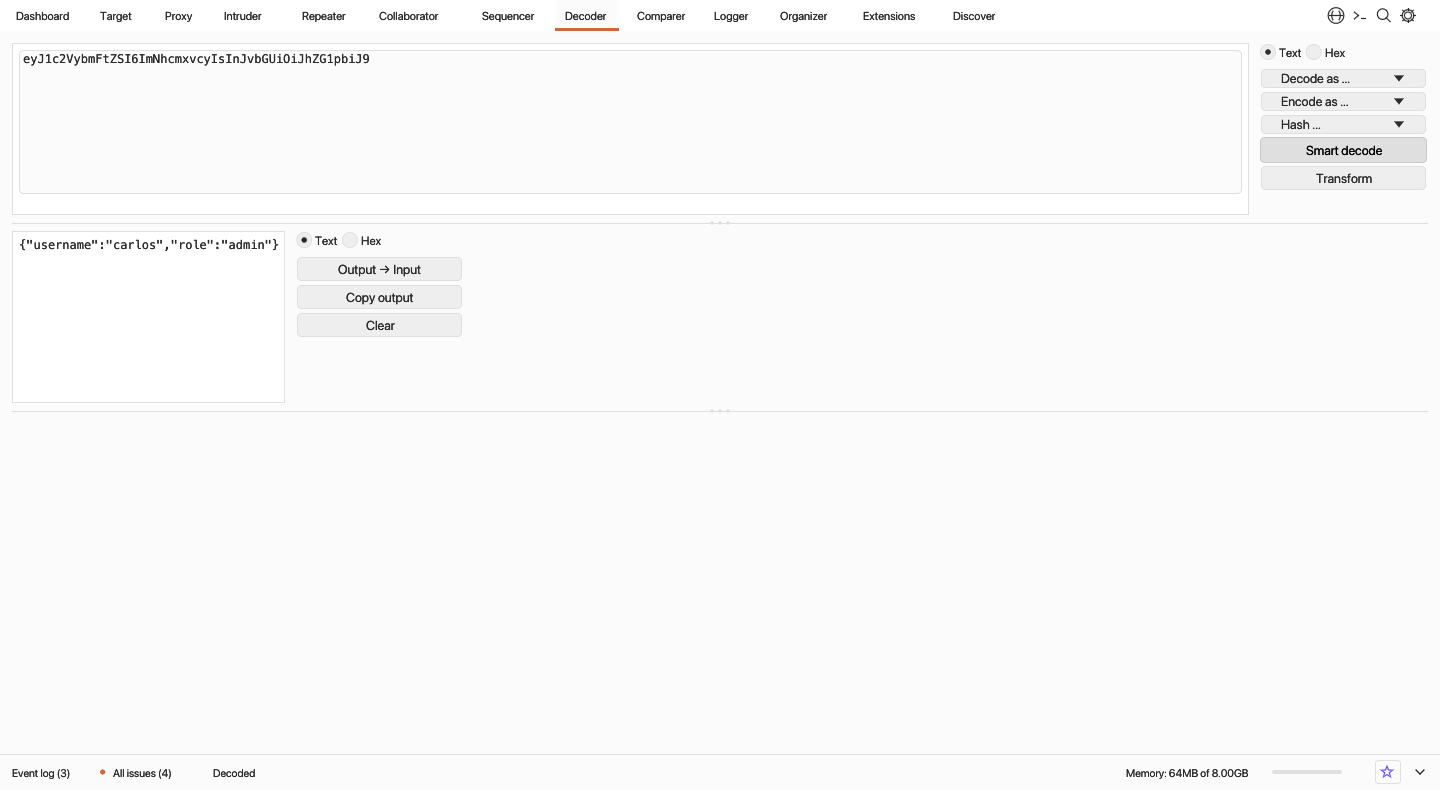
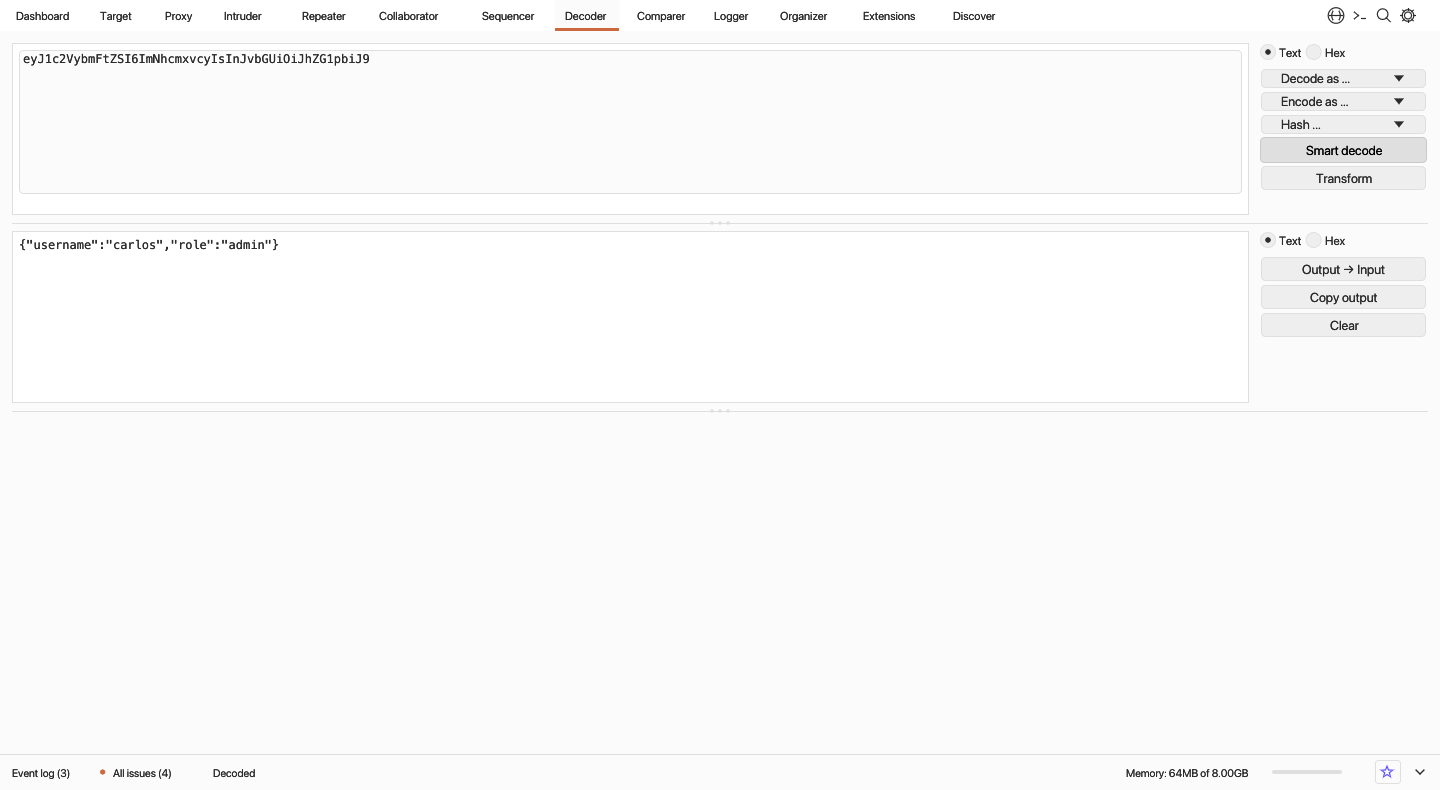
fix(ui,engine): resolve 8 UI layout/clipping bugs across Repeater, Decoder, Proxy, Scanner, Organizer, Comparer & Sequencer and wire DNS overrides/session rules into send_request

Changed region(s): [[0.875, 0.3038, 0.9688, 0.4253], [0.2188, 0.3038, 0.3125, 0.4253]]

diff --git a/engine/src/ui/panels/scanner.rs b/engine/src/ui/panels/scanner.rs
@@ -1224,13 +1224,14 @@ pub fn draw_scan_launcher(app: &mut App, ui: &mut Ui) {
                     ui.available_rect_before_wrap().min,
                     Vec2::new(content_w, body_h),
                 );
+                ui.set_clip_rect(bg_rect.intersect(ui.clip_rect()));
                 ui.painter()
                     .rect_filled(bg_rect, 0.0, theme.color("ui.background.0"));
                 egui::Frame::NONE
-                    .inner_margin(egui::Margin::symmetric(24, 20))
+                    .inner_margin(egui::Margin::symmetric(20, 12))
                     .show(ui, |ui| {
-                        ui.spacing_mut().item_spacing = Vec2::new(6.0, 6.0);
-                        let scroll_h = (body_h - 40.0).max(240.0);
+                        ui.spacing_mut().item_spacing = Vec2::new(6.0, 5.0);
+                        let scroll_h = (body_h - 24.0).max(240.0);
                         egui::ScrollArea::vertical()
                             .id_salt("scan-launcher-step-scroll")
                             .max_height(scroll_h)
@@ -1500,7 +1501,7 @@ fn draw_launcher_step_details(app: &mut App, ui: &mut Ui) {
         }
     }
 
-    ui.add_space(16.0);
+    ui.add_space(8.0);
 
     match app.panels.scanner.scan_type {
         0 | 1 => {
@@ -1524,7 +1525,7 @@ fn draw_launcher_step_details(app: &mut App, ui: &mut Ui) {
                             egui::TextEdit::multiline(&mut app.panels.scanner.urls_to_scan)
                                 .font(egui::TextStyle::Monospace)
                                 .frame(false)
-                                .desired_rows(5)
+                                .desired_rows(3)
                                 .desired_width(f32::INFINITY),
                         )
                         .changed()
@@ -1589,7 +1590,7 @@ fn draw_launcher_step_details(app: &mut App, ui: &mut Ui) {
                 }
             });
 
-            ui.add_space(12.0);
+            ui.add_space(6.0);
             heading(ui, &theme, "Protocol settings");
             ui.add_space(2.0);
             ui.radio_value(
@@ -1603,7 +1604,7 @@ fn draw_launcher_step_details(app: &mut App, ui: &mut Ui) {
                 "Scan using my specified protocols",
             );
 
-            ui.add_space(10.0);
+            ui.add_space(4.0);
             egui::CollapsingHeader::new(RichText::new("Detailed scope configuration").strong())
                 .default_open(false)
                 .show(ui, |ui| {

diff --git a/engine/src/ui/app.rs b/engine/src/ui/app.rs
@@ -1261,13 +1261,38 @@ impl App {
     }
 
     /// Sends one request off-thread; the result lands in `responses` for `take_response`.
-    pub fn send_request(&mut self, host: String, port: u16, raw: String, secure: bool) -> u64 {
+    pub fn send_request(&mut self, host: String, port: u16, mut raw: String, secure: bool) -> u64 {
         let id = self.next_request;
         self.next_request += 1;
+
+        // 1. Apply custom Hostname DNS Overrides (`Settings -> Network`)
+        let dial_host = self
+            .dns_overrides
+            .iter()
+            .find(|(h, _)| h.eq_ignore_ascii_case(host.trim()))
+            .map(|(_, ip)| ip.clone())
+            .unwrap_or_else(|| host.clone());
+
+        // 2. Apply active Session Handling Rules (`Settings -> Sessions`)
+        for (enabled, _rule_name, _action, hdr) in &self.session_rules {
+            if *enabled && hdr.contains(':') {
+                let (head, body) = crate::analysis::split_message(&raw);
+                let hdr_name = hdr.split(':').next().unwrap_or("").trim();
+                if !hdr_name.is_empty()
+                    && !head
+                        .lines()
+                        .skip(1)
+                        .any(|l| l.split(':').next().unwrap_or("").trim().eq_ignore_ascii_case(hdr_name))
+                {
+                    raw = format!("{head}\r\n{}\r\n\r\n{body}", hdr.trim());
+                }
+            }
+        }
+
         let proxy = self.proxy.clone();
         let tx = self._requests_tx.clone();
         let task = self.runtime.spawn(async move {
-            let result = proxy.one_shot_secure(&host, port, &raw, secure, 15_000).await;
+            let result = proxy.one_shot_secure(&dial_host, port, &raw, secure, 15_000).await;
             let _ = tx.send((id, result));
         });
         self.request_tasks.insert(id, task);
@@ -3316,8 +3341,8 @@ impl App {
                                 .fill(self.theme.color("ui.background.0"))
                                 .inner_margin(0.0),
                         )
-                        .default_pos([260.0, 90.0])
-                        .default_size([880.0, 560.0])
+                        .default_pos([260.0, 70.0])
+                        .default_size([880.0, 600.0])
                         .show(child_ctx, |ui| {
                             super::panels::scanner::draw_scan_launcher(self, ui)
                         });

diff --git a/engine/src/ui/panels/organizer.rs b/engine/src/ui/panels/organizer.rs
@@ -63,8 +63,10 @@ pub fn draw(app: &mut App, ui: &mut Ui) {
                 ui.with_layout(
                     eframe::egui::Layout::right_to_left(eframe::egui::Align::Center),
                     |ui| {
-                        if ui.button("+ New").on_hover_text("Save Repeater request to Inbox").clicked()
-                            || ui.button("Save Repeater request").clicked()
+                        if ui
+                            .small_button("+ New")
+                            .on_hover_text("Save Repeater request to Inbox")
+                            .clicked()
                         {
                             let (host, name) = (
                                 app.panels.repeater.active().host.clone(),
@@ -90,6 +92,29 @@ pub fn draw(app: &mut App, ui: &mut Ui) {
                     },
                 );
             });
+            ui.add_space(4.0);
+            if ui.button("Save Repeater request").clicked() {
+                let (host, name) = (
+                    app.panels.repeater.active().host.clone(),
+                    app.panels.repeater.active().raw.clone(),
+                );
+                if name.trim().is_empty() {
+                    app.status = "Nothing to save: the Repeater request is empty".into();
+                } else {
+                    let next = app.organizer.len() + 1;
+                    retain(
+                        app,
+                        OrganizerItem {
+                            host,
+                            name: format!("item-{next}"),
+                            request: name,
+                            response: app.panels.repeater.active().response.clone(),
+                            notes: String::new(),
+                        },
+                    );
+                    app.status = "Saved to Organizer".into();
+                }
+            }
             ui.add_space(4.0);
             ui.add(
                 eframe::egui::TextEdit::singleline(&mut app.panels.organizer.search)

diff --git a/engine/src/ui/panels/sequencer.rs b/engine/src/ui/panels/sequencer.rs
@@ -253,11 +253,15 @@ pub fn draw(app: &mut App, ui: &mut Ui) {
                                     } else {
                                         req_line.clone()
                                     };
-                                    let r1 = ui.label(format!("{}", i + 1));
-                                    let r2 = ui.label(short_host).on_hover_text(&host_url);
+                                    let is_sel =
+                                        app.panels.sequencer.text == resp && !resp.is_empty();
+                                    let r1 = ui.selectable_label(is_sel, format!("{}", i + 1));
+                                    let r2 = ui
+                                        .selectable_label(is_sel, short_host)
+                                        .on_hover_text(&host_url);
                                     let r3 = ui
                                         .selectable_label(
-                                            app.panels.sequencer.text == resp && !resp.is_empty(),
+                                            is_sel,
                                             eframe::egui::RichText::new(short_req).monospace(),
                                         )
                                         .on_hover_text(&req_line);
@@ -275,9 +279,13 @@ pub fn draw(app: &mut App, ui: &mut Ui) {
     });
 
     ui.add_space(6.0);
-    if ui.button("Start live capture").clicked() || ui.button("Analyze").clicked() {
-        analyze(app);
-    }
+    ui.horizontal(|ui| {
+        let b1 = ui.button("Start live capture");
+        let b2 = ui.button("Analyze");
+        if b1.clicked() || b2.clicked() {
+            analyze(app);
+        }
+    });
     ui.add_space(6.0);
     ui.separator();
     ui.add_space(4.0);

diff --git a/engine/src/ui/panels/mod.rs b/engine/src/ui/panels/mod.rs
@@ -2408,10 +2408,12 @@ fn draw_inspector_kv_table(
         muted(ui, theme, "None");
         return;
     }
+    let prev_btn_pad = ui.spacing().button_padding;
+    ui.spacing_mut().button_padding = eframe::egui::Vec2::new(5.0, 1.5);
     eframe::egui::Grid::new(id_salt)
         .num_columns(if allow_delete { 4 } else { 3 })
         .striped(true)
-        .spacing([6.0, 3.0])
+        .spacing([5.0, 3.0])
         .show(ui, |ui| {
             ui.label(
                 eframe::egui::RichText::new("Name")
@@ -2434,14 +2436,14 @@ fn draw_inspector_kv_table(
             for (idx, (k, v)) in rows.iter().enumerate() {
                 let decoded = auto_decode_value(v);
                 let display_val = if decoded != *v {
-                    format!("{} → {}", truncate_insp(v, 10), truncate_insp(&decoded, 14))
+                    format!("{} → {}", truncate_insp(v, 8), truncate_insp(&decoded, 10))
                 } else {
-                    truncate_insp(v, 22)
+                    truncate_insp(v, 16)
                 };
                 if ui
                     .add(
                         eframe::egui::Button::new(
-                            eframe::egui::RichText::new(truncate_insp(k, 16))
+                            eframe::egui::RichText::new(truncate_insp(k, 13))
                                 .monospace()
                                 .size(11.0),
                         )
@@ -2479,6 +2481,7 @@ fn draw_inspector_kv_table(
                 ui.end_row();
             }
         });
+    ui.spacing_mut().button_padding = prev_btn_pad;
 }
 
 fn truncate_insp(s: &str, max_chars: usize) -> String {

diff --git a/engine/src/ui/panels/proxy.rs b/engine/src/ui/panels/proxy.rs
@@ -2743,8 +2743,8 @@ fn history(app: &mut App, ui: &mut Ui) {
                 app.panels.proxy_panel.history_req_fmt_mode = 2;
                 app.panels.proxy_panel.history_resp_fmt_mode = 2;
             }
-            let detail_h = (ui.available_height() - 18.0)
-                .max(app.panels.proxy_panel.detail_height.min(180.0));
+            let detail_h = (ui.available_height() - 38.0)
+                .clamp(120.0, app.panels.proxy_panel.detail_height.max(160.0));
             let mut ratio = app.panels.proxy_panel.split_ratio;
             vertical_split(
                 ui,
@@ -2877,7 +2877,9 @@ fn history(app: &mut App, ui: &mut Ui) {
         }
     }
 
-    cookie_jar(app, ui);
+    if app.panels.proxy_panel.selected.is_none() {
+        cookie_jar(app, ui);
+    }
 }
 
 #[cfg(test)]

diff --git a/engine/src/ui/panels/comparer.rs b/engine/src/ui/panels/comparer.rs
@@ -247,13 +247,9 @@ pub fn draw(app: &mut App, ui: &mut Ui) {
         ui.vertical(|ui| {
             ui.set_width(btn_w);
             ui.label("Compare ...");
-            if ui
-                .add_sized([btn_w, 24.0], eframe::egui::Button::new("Words"))
-                .clicked()
-                || ui
-                    .add_sized([btn_w, 24.0], eframe::egui::Button::new("Compare"))
-                    .clicked()
-            {
+            let words_btn = ui.add_sized([btn_w, 24.0], eframe::egui::Button::new("Words"));
+            let cmp_btn = ui.add_sized([btn_w, 24.0], eframe::egui::Button::new("Compare"));
+            if words_btn.clicked() || cmp_btn.clicked() {
                 run_words_compare(app);
             }
             if ui

diff --git a/engine/src/ui/panels/decoder.rs b/engine/src/ui/panels/decoder.rs
@@ -268,10 +268,12 @@ pub fn draw(app: &mut App, ui: &mut Ui) {
                 .inner_margin(6.0)
                 .stroke(eframe::egui::Stroke::new(1.0, theme.color("ui.border.1")))
                 .show(ui, |ui| {
+                    ui.set_min_width((left_col_w - 14.0).max(120.0));
                     ui.set_min_height(output_h - 12.0);
                     eframe::egui::ScrollArea::vertical()
                         .id_salt("decoder-output-scroll")
                         .max_height(output_h - 12.0)
+                        .auto_shrink([false, false])
                         .show(ui, |ui| {
                             let shown = if app.panels.decoder.output_hex_view {
                                 hex_dump(&app.panels.decoder.output)

diff --git a/engine/src/ui/panels/repeater.rs b/engine/src/ui/panels/repeater.rs
@@ -1275,6 +1275,7 @@ fn draw_response_pane(
 ) {
     // Orange `Response` header + status & timing (`quick-start-pro-repeater.png`)
     ui.horizontal(|ui| {
+        ui.spacing_mut().item_spacing.x = 8.0;
         ui.label(
             RichText::new("Response")
                 .size(15.0)
